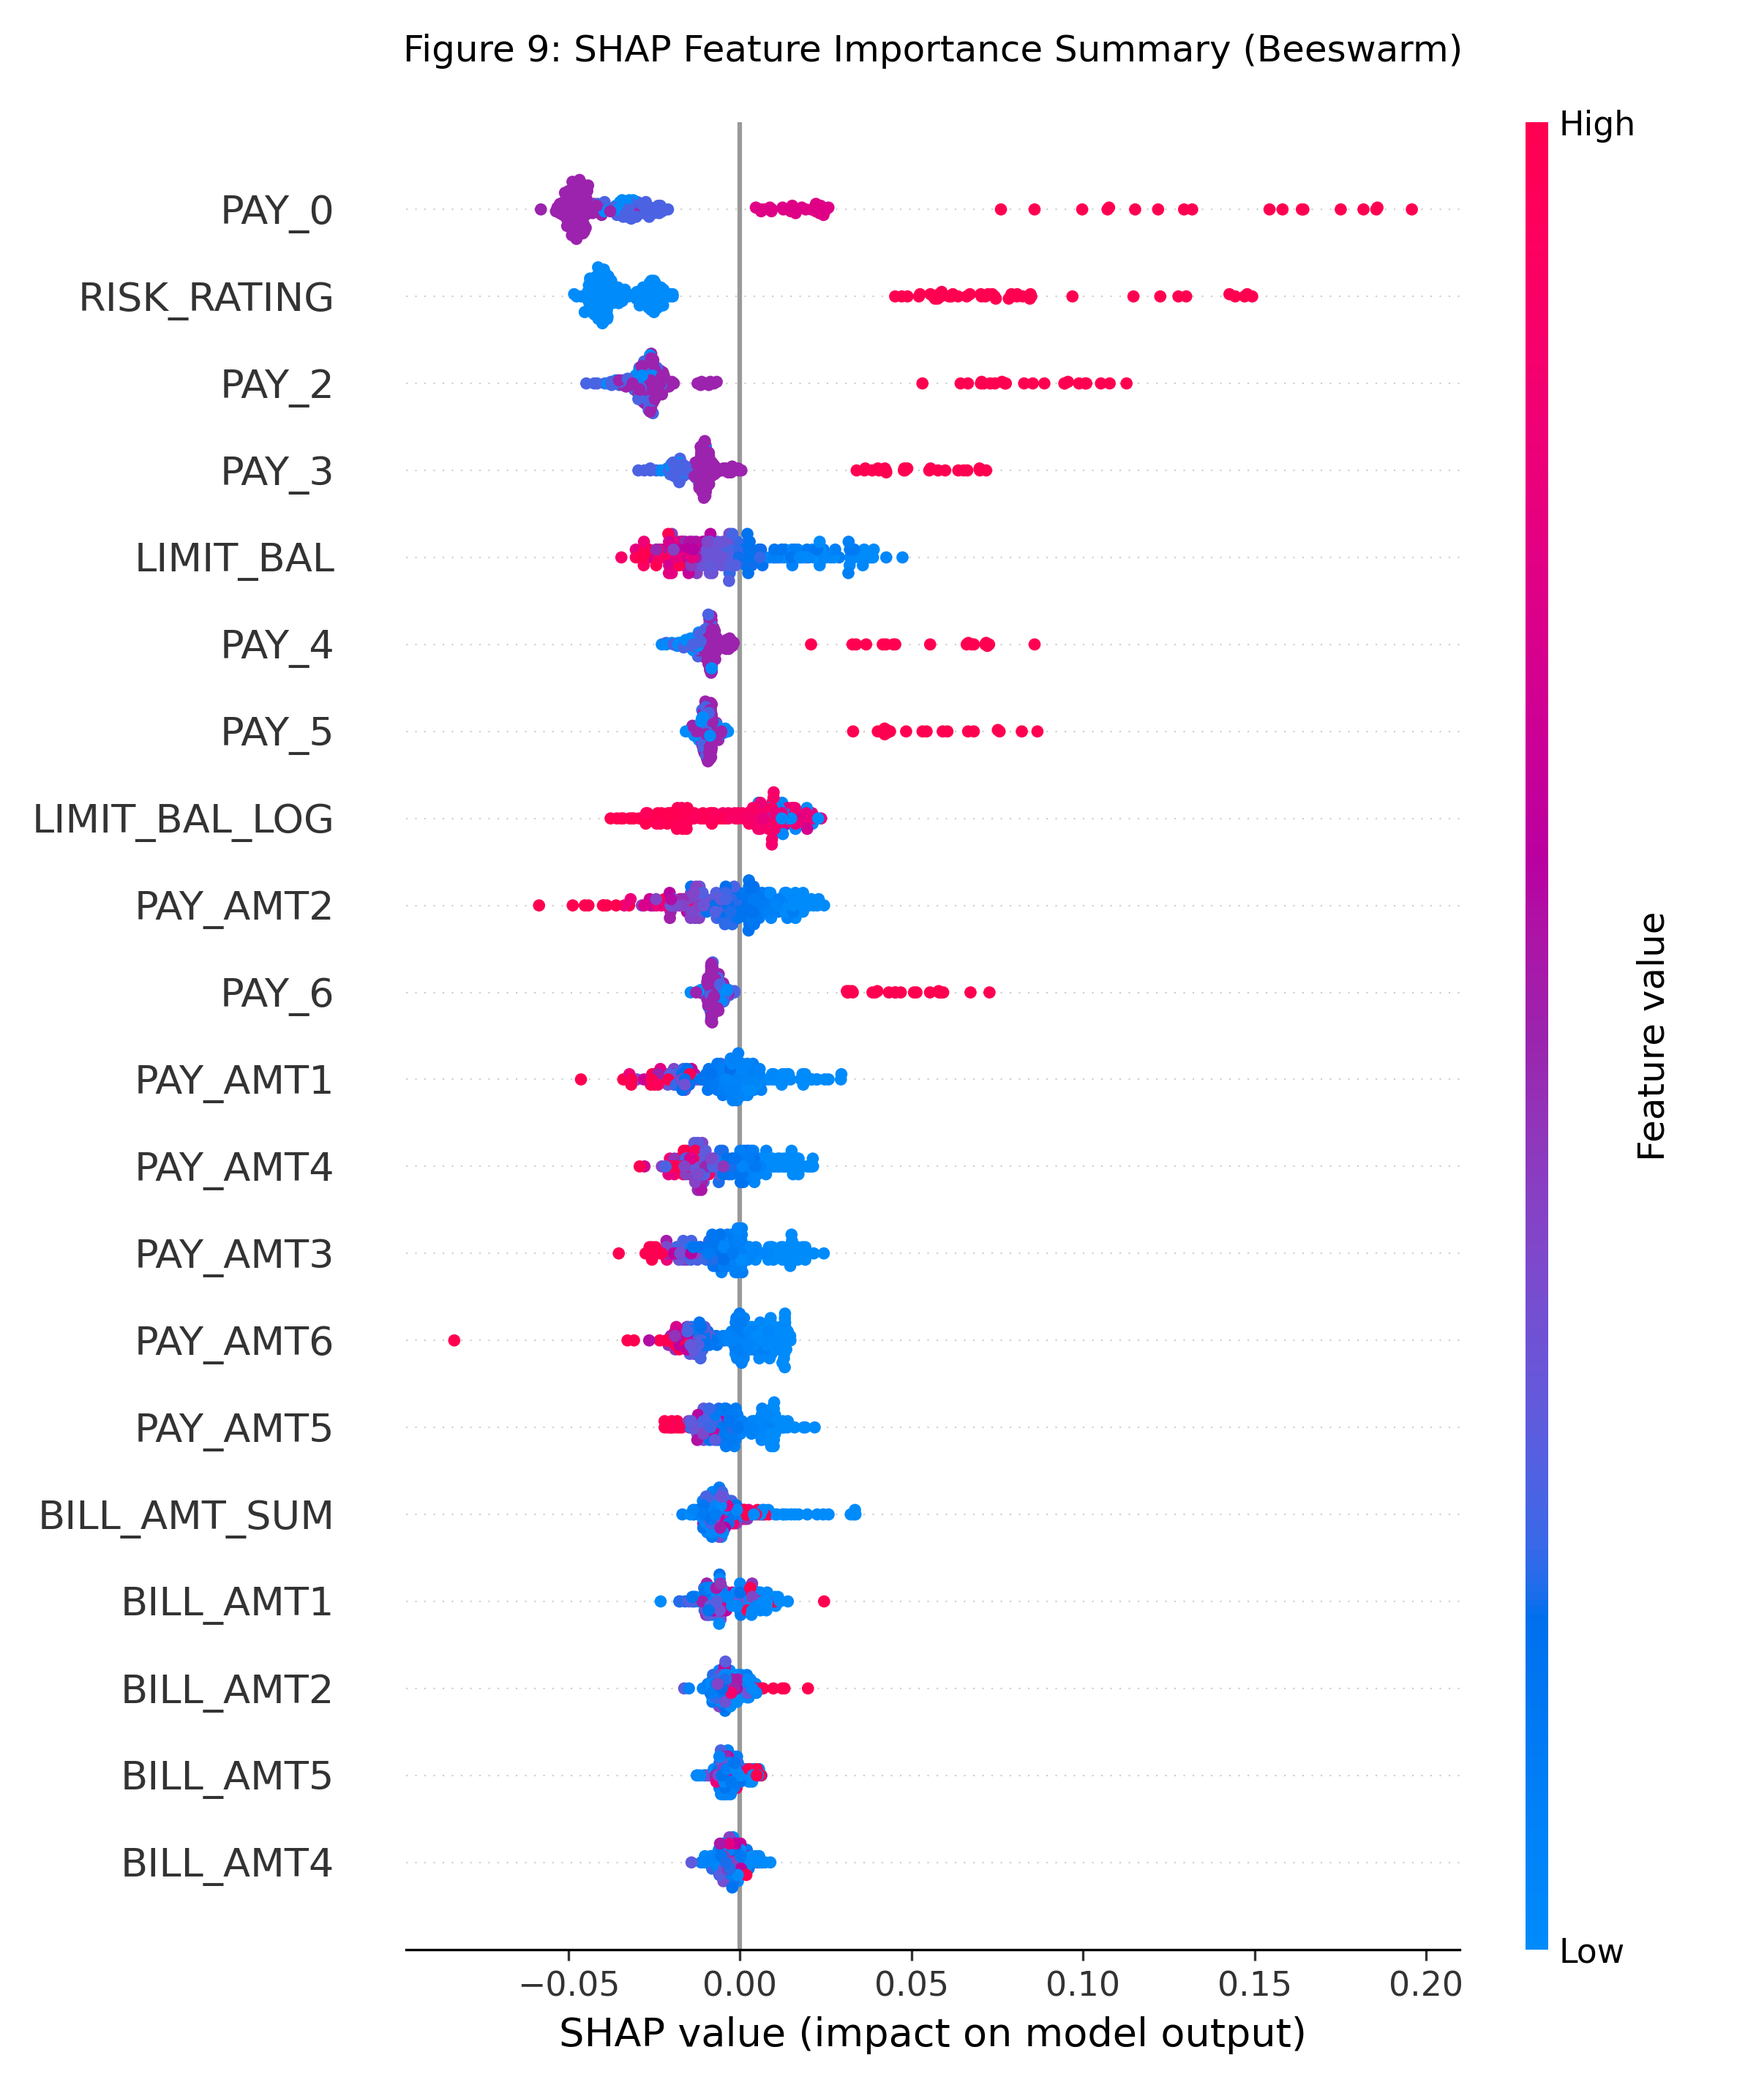
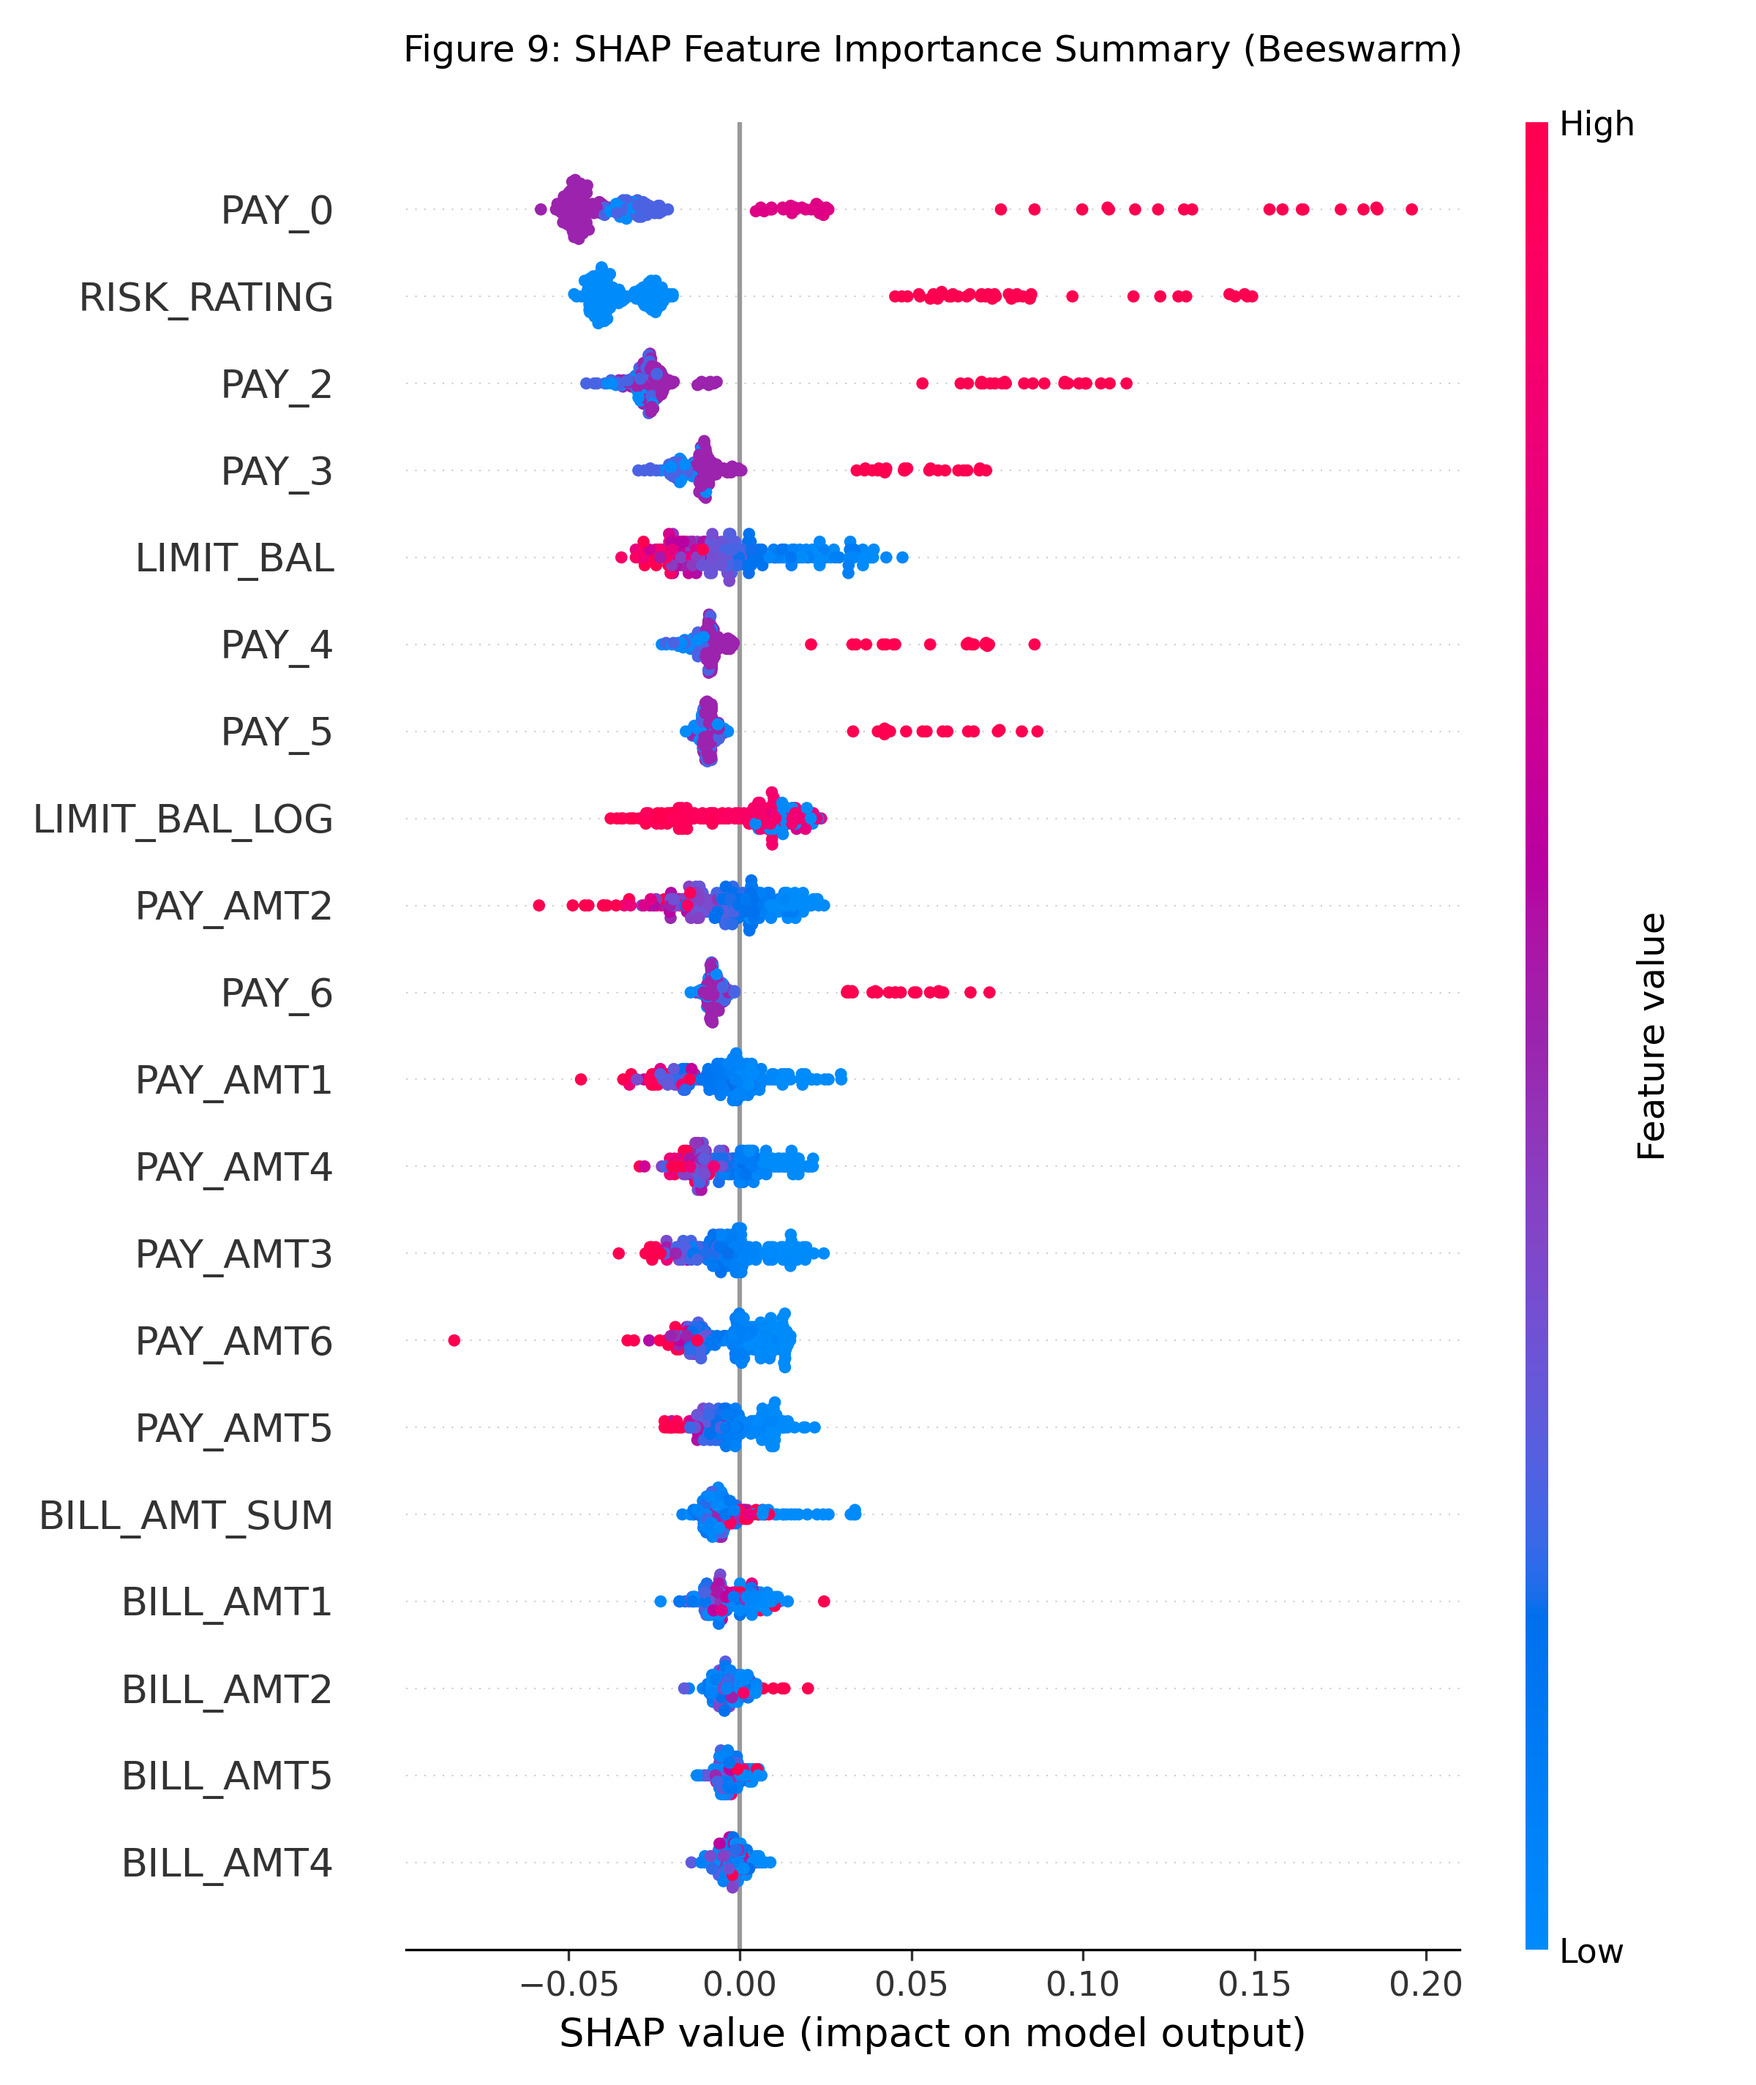
Figures moified

diff --git a/model_experiments.py b/model_experiments.py
@@ -14,16 +14,19 @@ from sklearn.metrics import accuracy_score, precision_score, recall_score, f1_sc
 
 print("--- Starting Full Expanded Visualization & Machine Learning Pipeline ---")
 
+# Step 1: Read raw data to capture structural missing value tracking maps
 df_raw = pd.read_csv('Credit_Card.csv', sep=';')
 
-print("Generating Figure 7: Missing Values Heatmap...")
+# CORRECTED: Assigned to Figure 6 to prevent overlapping filenames
+print("Generating Figure 6: Missing Values Heatmap...")
 plt.figure(figsize=(10, 5))
 sns.heatmap(df_raw.isnull(), cbar=False, cmap='viridis')
-plt.title('Figure 7: Missing Values Heatmap')
+plt.title('Figure 6: Missing Values Heatmap')
 plt.tight_layout()
-plt.savefig('Figure_7_Missing_Values_Heatmap.png', dpi=300)
+plt.savefig('Figure_6_Missing_Values_Heatmap.png', dpi=300)
 plt.close()
 
+# Step 2: Read clean data cache for core model processing
 df = pd.read_csv('Cleaned_Credit_Card.csv')
 
 print("Generating Figure 1: Distribution of LIMIT_BAL...")
@@ -66,6 +69,7 @@ plt.tight_layout()
 plt.savefig('Figure_5_Distribution_of_EDUCATION.png', dpi=300)
 plt.close()
 
+# Prepare feature boundaries and split datasets
 X = df.drop(columns=['ID', 'default.payment.next.month', 'risk_leak'])
 y = df['default.payment.next.month']
 
@@ -108,6 +112,7 @@ for name, algorithm in models.items():
     roc_auc = auc(fpr, tpr)
     plt.plot(fpr, tpr, label=f'{name} (AUC = {roc_auc:.3f})')
 
+# CORRECTED: Kept as Figure 7 to match sequential evaluation flows
 print("Generating Figure 7: ROC Curve Plot Comparison...")
 plt.plot([0, 1], [0, 1], 'k--', label='Base Rate (Chance)')
 plt.xlim([0.0, 1.0])
